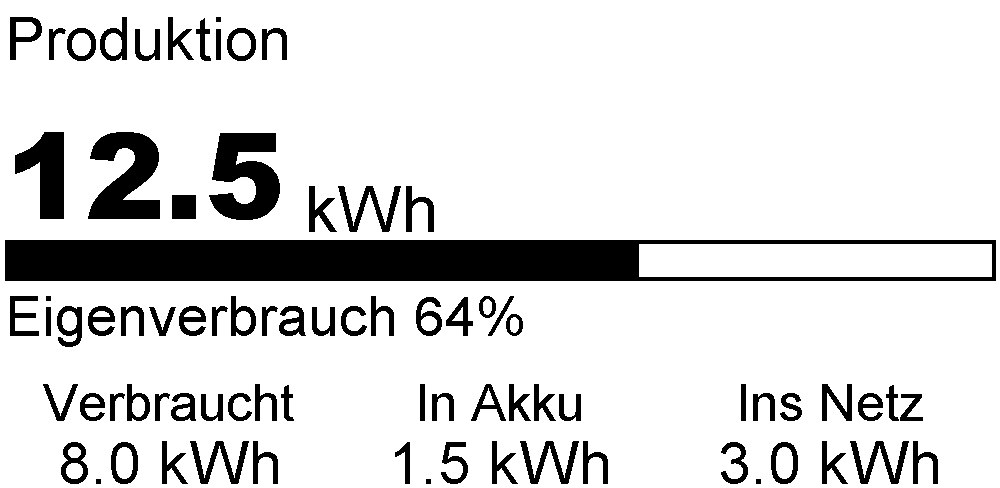
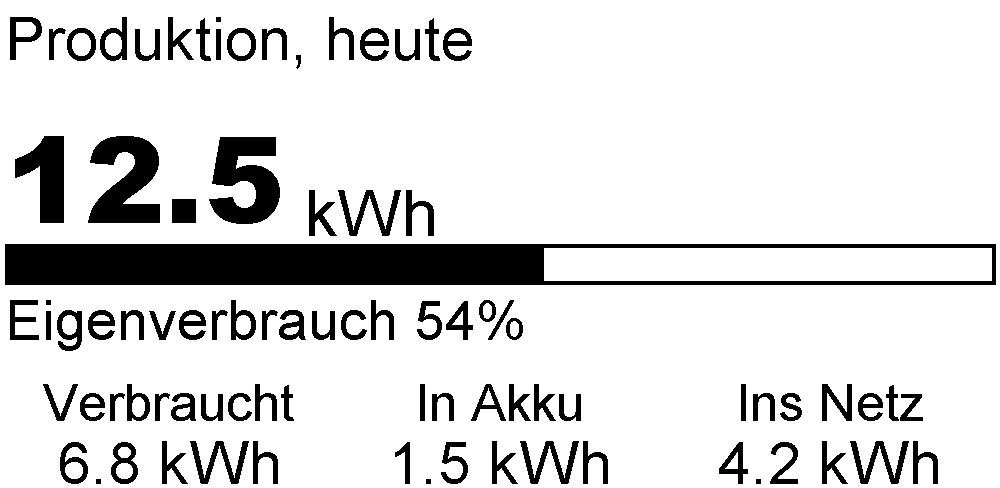
fix: improve German screen labels for clarity
Add ", heute" suffix to headlines (Produktion, Verbrauch, Einspeisung).
Rename Bezug to Netzbezug. Reword bar legends to be more descriptive
(e.g. "Davon 81% von PV-Anlage" instead of "Solaranteil 81%").
Swap history headline/sub-label so screen type is prominent.
Regenerate all docs screenshots and update README.

diff --git a/screens/history.py b/screens/history.py
@@ -25,8 +25,8 @@ def _render_history(data: EnergyHistory, values: list, label: str) -> Image:
     """Render a 14-day histogram screen.
 
     Layout:
-        Headline "Letzte 2 Wochen" (Arial 60) at top
-        Sub-label with label left + "max: X.X kWh" right (Arial 44)
+        Headline with label (Arial 60) at top
+        Sub-label "Letzte 2 Wochen" left + "max: X.X kWh" right (Arial 44)
         14 vertical bars proportional to max value
         Date labels (DD) below bars (Arial 36)
     """
@@ -38,23 +38,23 @@ def _render_history(data: EnergyHistory, values: list, label: str) -> Image:
     date_font = load_font('Arial.ttf', 36)
 
     # --- HEADLINE ---
-    headline = "Letzte 2 Wochen"
-    draw.text((MARGIN, MARGIN), headline, fill=0, font=headline_font)
-    headline_bbox = draw.textbbox((MARGIN, MARGIN), headline, font=headline_font)
+    draw.text((MARGIN, MARGIN), label, fill=0, font=headline_font)
+    headline_bbox = draw.textbbox((MARGIN, MARGIN), label, font=headline_font)
     headline_bottom = headline_bbox[3]
 
     # --- SUB-LABEL ---
     sub_y = headline_bottom + 8
     max_val = max(values) if values else 0.0
     max_text = f"max: {max_val:.1f} kWh"
+    sub_label = "Letzte 2 Wochen"
 
-    draw.text((MARGIN, sub_y), label, fill=0, font=sub_font)
+    draw.text((MARGIN, sub_y), sub_label, fill=0, font=sub_font)
 
     max_bbox = draw.textbbox((0, 0), max_text, font=sub_font)
     max_text_w = max_bbox[2] - max_bbox[0]
     draw.text((CANVAS_W - MARGIN - max_text_w, sub_y), max_text, fill=0, font=sub_font)
 
-    sub_bbox = draw.textbbox((MARGIN, sub_y), label, font=sub_font)
+    sub_bbox = draw.textbbox((MARGIN, sub_y), sub_label, font=sub_font)
     sub_bottom = sub_bbox[3]
 
     # --- DATE LABELS (bottom) ---

diff --git a/rendering/bars.py b/rendering/bars.py
@@ -8,17 +8,17 @@ with percentage text displayed to the right of the bar.
 from PIL import ImageDraw
 
 
-def draw_horizontal_bar(draw: ImageDraw.Draw, bbox: tuple, percentage: float, font, label: str = "") -> None:
+def draw_horizontal_bar(draw: ImageDraw.Draw, bbox: tuple, percentage: float, font, label: str = "", legend: str = "") -> None:
     """
     Draw a horizontal bar chart with percentage fill and text label.
-    Label text is positioned ABOVE the bar to avoid right-edge truncation.
 
     Args:
         draw: PIL ImageDraw instance
         bbox: Tuple of (x0, y0, x1, y1) defining bar bounds
         percentage: Fill percentage (0-100)
         font: PIL font object for percentage text
-        label: Optional label to prefix before percentage (e.g., "Eigenverbrauch")
+        label: Optional label to prefix before percentage (e.g., "Eigenverbrauch" → "Eigenverbrauch 75%")
+        legend: Optional pre-formatted legend text (overrides label if provided)
     """
     x0, y0, x1, y1 = bbox
 
@@ -37,8 +37,10 @@ def draw_horizontal_bar(draw: ImageDraw.Draw, bbox: tuple, percentage: float, fo
         fill_bbox = [x0, y0, x0 + fill_width, y1]
         draw.rectangle(fill_bbox, fill=0)
 
-    # Draw percentage text BELOW the bar (left-aligned at bar x0)
-    if label:
+    # Draw legend text BELOW the bar (left-aligned at bar x0)
+    if legend:
+        percentage_text = legend
+    elif label:
         percentage_text = f"{label} {int(percentage)}%"
     else:
         percentage_text = f"{int(percentage)}%"

diff --git a/screens/consumption.py b/screens/consumption.py
@@ -39,7 +39,7 @@ def render_consumption_screen(data: EnergyDetails) -> Image:
     bar_font = load_font('Arial.ttf', 56)
 
     # --- HEADLINE: top-left ---
-    label_text = "Verbrauch"
+    label_text = "Verbrauch, heute"
     draw.text((MARGIN, MARGIN), label_text, fill=0, font=label_font)
     label_bbox = draw.textbbox((MARGIN, MARGIN), label_text, font=label_font)
     label_bottom = label_bbox[3]
@@ -56,7 +56,7 @@ def render_consumption_screen(data: EnergyDetails) -> Image:
     bar_h = 40
     gap_value_bar = 20
     gap_bar_label = 5
-    bar_label_text = "Solaranteil 100%"
+    bar_label_text = "Davon 100% von PV-Anlage"
     bar_label_measure = draw.textbbox((0, 0), bar_label_text, font=bar_font)
     bar_label_h = bar_label_measure[3]
 
@@ -77,7 +77,7 @@ def render_consumption_screen(data: EnergyDetails) -> Image:
     bar_y = value_y + value_h + gap_value_bar
     bar_bbox = (MARGIN, bar_y, CANVAS_W - MARGIN, bar_y + bar_h)
     percentage = min(100.0, (data.self_consumption / data.consumption) * 100.0) if data.consumption > 0 else 0.0
-    draw_horizontal_bar(draw, bar_bbox, percentage, bar_font, label="Solaranteil")
+    draw_horizontal_bar(draw, bar_bbox, percentage, bar_font, legend=f"Davon {int(percentage)}% von PV-Anlage")
 
     content_width = CANVAS_W - 2 * MARGIN
     column_width = content_width // 3

diff --git a/screens/feed_in.py b/screens/feed_in.py
@@ -35,7 +35,7 @@ def render_feed_in_screen(data: EnergyDetails) -> Image:
     bar_font = load_font('Arial.ttf', 56)
 
     # --- HEADLINE: top-left ---
-    label_text = "Einspeisung"
+    label_text = "Einspeisung, heute"
     draw.text((MARGIN, MARGIN), label_text, fill=0, font=label_font)
     label_bbox = draw.textbbox((MARGIN, MARGIN), label_text, font=label_font)
     label_bottom = label_bbox[3]
@@ -48,7 +48,7 @@ def render_feed_in_screen(data: EnergyDetails) -> Image:
     bar_h = 40
     gap_value_bar = 20
     gap_bar_label = 5
-    bar_label_text = "Anteil Produktion 100%"
+    bar_label_text = "100% der Tagesproduktion"
     bar_label_measure = draw.textbbox((0, 0), bar_label_text, font=bar_font)
     bar_label_h = bar_label_measure[3]
 
@@ -69,6 +69,6 @@ def render_feed_in_screen(data: EnergyDetails) -> Image:
     bar_y = value_y + value_h + gap_value_bar
     bar_bbox = (MARGIN, bar_y, CANVAS_W - MARGIN, bar_y + bar_h)
     percentage = min(100.0, (data.feed_in / data.production) * 100.0) if data.production > 0 else 0.0
-    draw_horizontal_bar(draw, bar_bbox, percentage, bar_font, label="Anteil Produktion")
+    draw_horizontal_bar(draw, bar_bbox, percentage, bar_font, legend=f"{int(percentage)}% der Tagesproduktion")
 
     return img

diff --git a/screens/purchased.py b/screens/purchased.py
@@ -35,7 +35,7 @@ def render_purchased_screen(data: EnergyDetails) -> Image:
     bar_font = load_font('Arial.ttf', 56)
 
     # --- HEADLINE: top-left ---
-    label_text = "Bezug"
+    label_text = "Netzbezug, heute"
     draw.text((MARGIN, MARGIN), label_text, fill=0, font=label_font)
     label_bbox = draw.textbbox((MARGIN, MARGIN), label_text, font=label_font)
     label_bottom = label_bbox[3]
@@ -48,7 +48,7 @@ def render_purchased_screen(data: EnergyDetails) -> Image:
     bar_h = 40
     gap_value_bar = 20
     gap_bar_label = 5
-    bar_label_text = "Anteil Verbrauch 100%"
+    bar_label_text = "100% vom Tagesverbrauch"
     bar_label_measure = draw.textbbox((0, 0), bar_label_text, font=bar_font)
     bar_label_h = bar_label_measure[3]
 
@@ -69,6 +69,6 @@ def render_purchased_screen(data: EnergyDetails) -> Image:
     bar_y = value_y + value_h + gap_value_bar
     bar_bbox = (MARGIN, bar_y, CANVAS_W - MARGIN, bar_y + bar_h)
     percentage = min(100.0, (data.purchased / data.consumption) * 100.0) if data.consumption > 0 else 0.0
-    draw_horizontal_bar(draw, bar_bbox, percentage, bar_font, label="Anteil Verbrauch")
+    draw_horizontal_bar(draw, bar_bbox, percentage, bar_font, legend=f"{int(percentage)}% vom Tagesverbrauch")
 
     return img

diff --git a/screens/production.py b/screens/production.py
@@ -39,7 +39,7 @@ def render_production_screen(data: EnergyDetails) -> Image:
     bar_font = load_font('Arial.ttf', 56)
 
     # --- HEADLINE: top-left ---
-    label_text = "Produktion"
+    label_text = "Produktion, heute"
     draw.text((MARGIN, MARGIN), label_text, fill=0, font=label_font)
     label_bbox = draw.textbbox((MARGIN, MARGIN), label_text, font=label_font)
     label_bottom = label_bbox[3]

diff --git a/README.md b/README.md
@@ -9,8 +9,8 @@ The display cycles through up to 7 screens, each showing a daily energy metric w
 | Produktion | Verbrauch |
 |:---:|:---:|
 | ![Produktion](docs/screen-produktion.png) | ![Verbrauch](docs/screen-verbrauch.png) |
-| **Einspeisung** | **Bezug** |
-| ![Einspeisung](docs/screen-einspeisung.png) | ![Bezug](docs/screen-bezug.png) |
+| **Einspeisung** | **Netzbezug** |
+| ![Einspeisung](docs/screen-einspeisung.png) | ![Netzbezug](docs/screen-bezug.png) |
 | **Hausakku (Laden)** | **Hausakku (Entladen)** |
 | ![Hausakku Laden](docs/screen-hausakku-charging.png) | ![Hausakku Entladen](docs/screen-hausakku-discharging.png) |
 | **Verlauf Produktion** | **Verlauf Verbrauch** |
